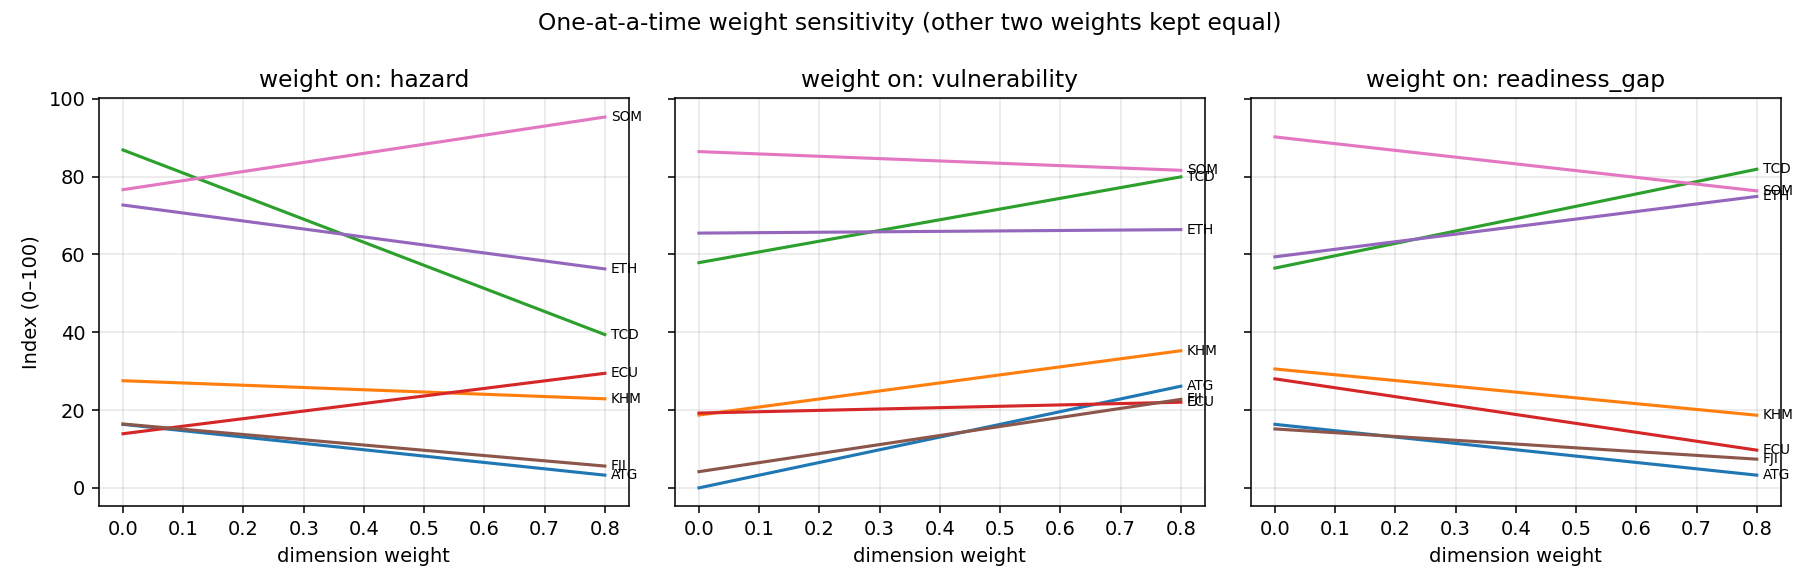
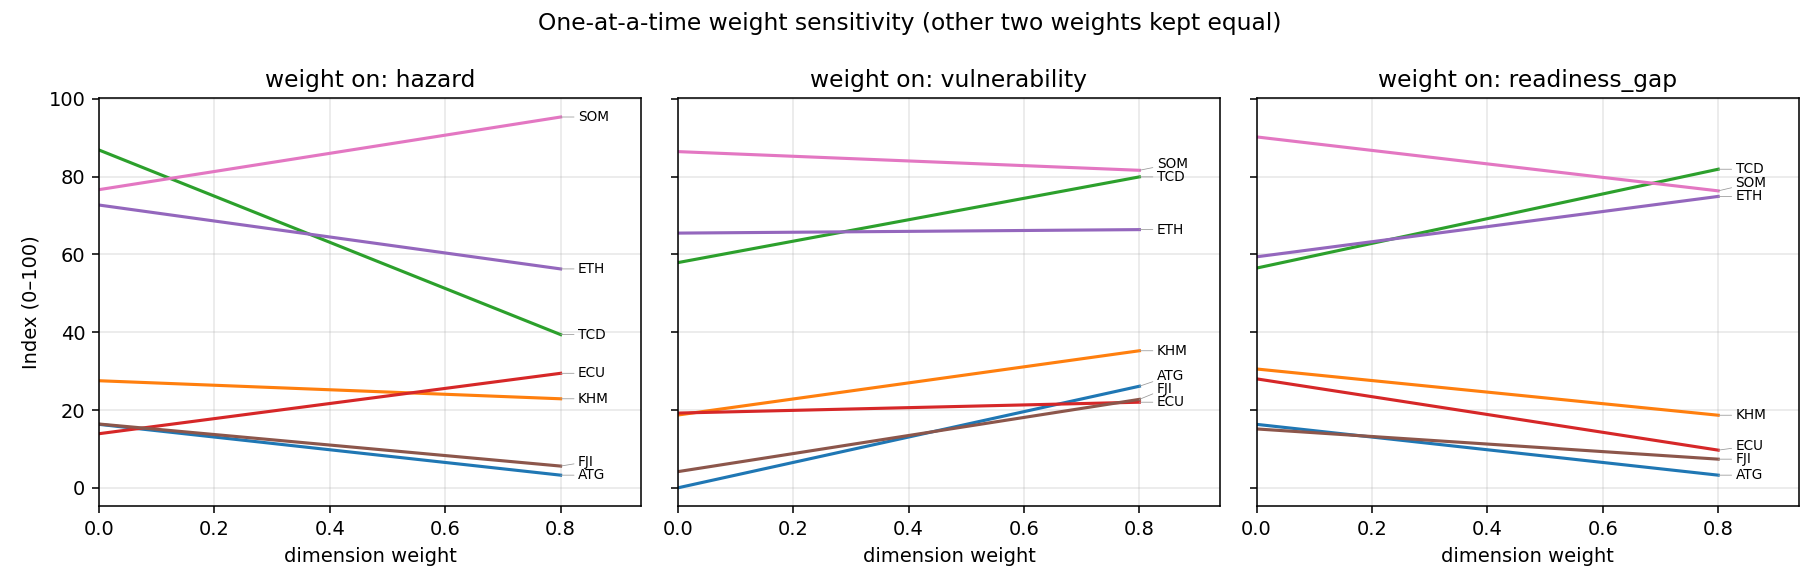
Declutter overlapping chart labels: spread weight-sensitivity end-labels; drop colliding topology labels on the network map

diff --git a/src/uncertainty.py b/src/uncertainty.py
@@ -208,6 +208,15 @@ def main():
     # ---------- 4) one-at-a-time weight sensitivity ----------
     sweep = np.linspace(0, 0.8, 33)
     fig, axes = plt.subplots(1, 3, figsize=(13, 4.2), sharey=True)
+    def _declutter(ys, min_gap):
+        """Nudge end-labels apart so they never overlap, preserving order."""
+        idx = sorted(range(len(ys)), key=lambda i: ys[i])
+        pos = list(ys)
+        for k in range(1, len(idx)):
+            lo, hi = idx[k - 1], idx[k]
+            if pos[hi] - pos[lo] < min_gap:
+                pos[hi] = pos[lo] + min_gap
+        return pos
     for ax, (di, dname) in zip(axes, enumerate(DIMENSIONS)):
         traj = []
         for wv in sweep:
@@ -216,8 +225,15 @@ def main():
         traj = np.array(traj)  # sweep x n
         for c in range(n):
             ax.plot(sweep, traj[:, c], lw=1.6)
-            ax.annotate(df["iso3"][c], (sweep[-1], traj[-1, c]), fontsize=7,
-                        xytext=(3, 0), textcoords="offset points", va="center")
+        # place country codes at the right edge, spread vertically so they never collide
+        ends = traj[-1, :]
+        label_y = _declutter(list(ends), min_gap=3.4)
+        for c in range(n):
+            ax.annotate(df["iso3"][c], xy=(sweep[-1], ends[c]),
+                        xytext=(sweep[-1] + 0.03, label_y[c]), fontsize=7, va="center",
+                        arrowprops=dict(arrowstyle="-", lw=0.4, color="#999",
+                                        shrinkA=0, shrinkB=0))
+        ax.set_xlim(0, 0.94)
         ax.set_title(f"weight on: {dname}"); ax.set_xlabel("dimension weight"); ax.grid(alpha=0.3)
     axes[0].set_ylabel("Index (0–100)")
     fig.suptitle("One-at-a-time weight sensitivity (other two weights kept equal)")